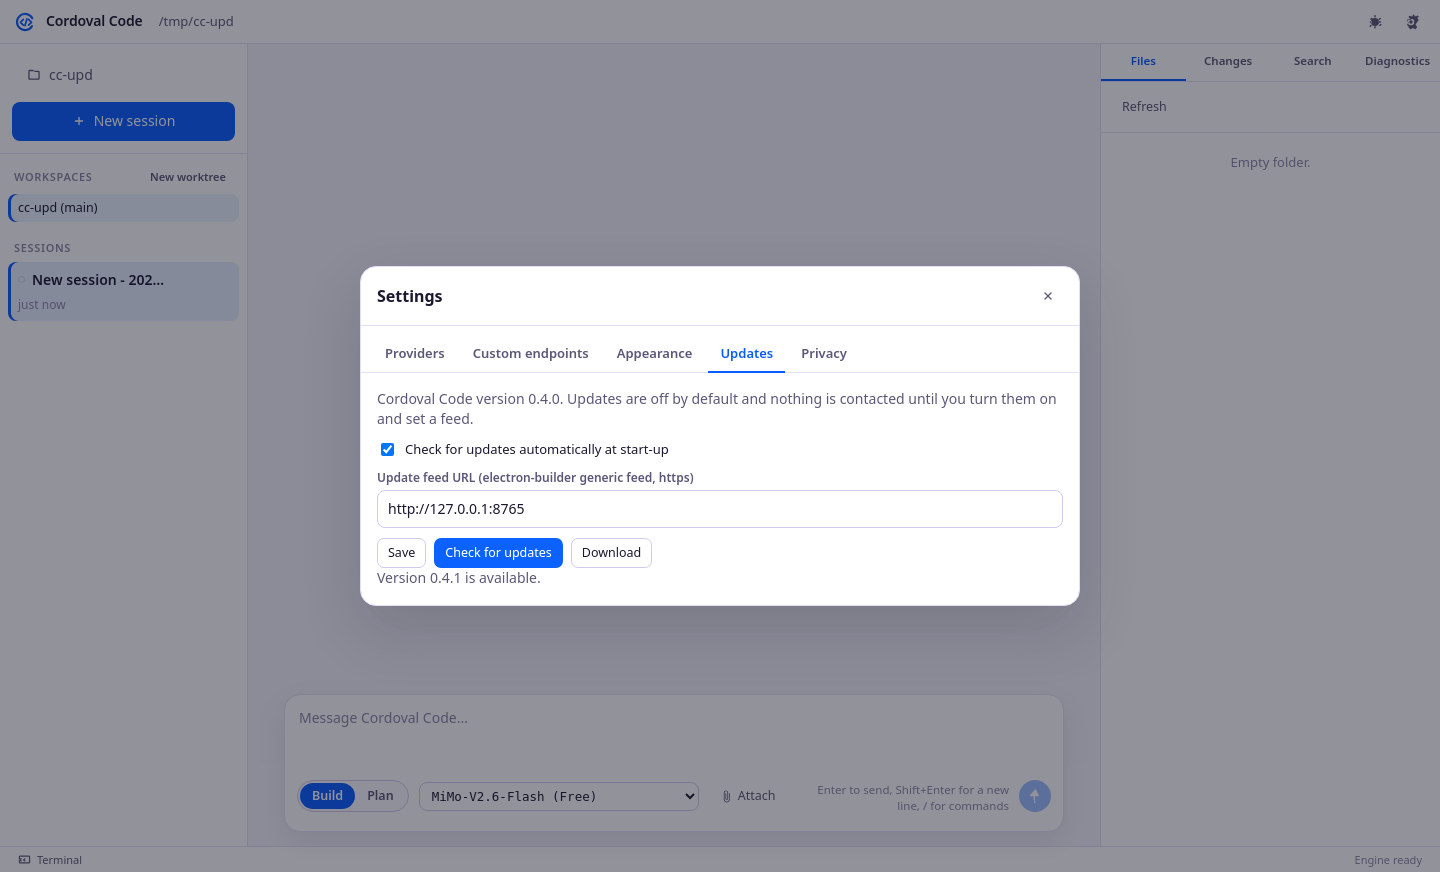
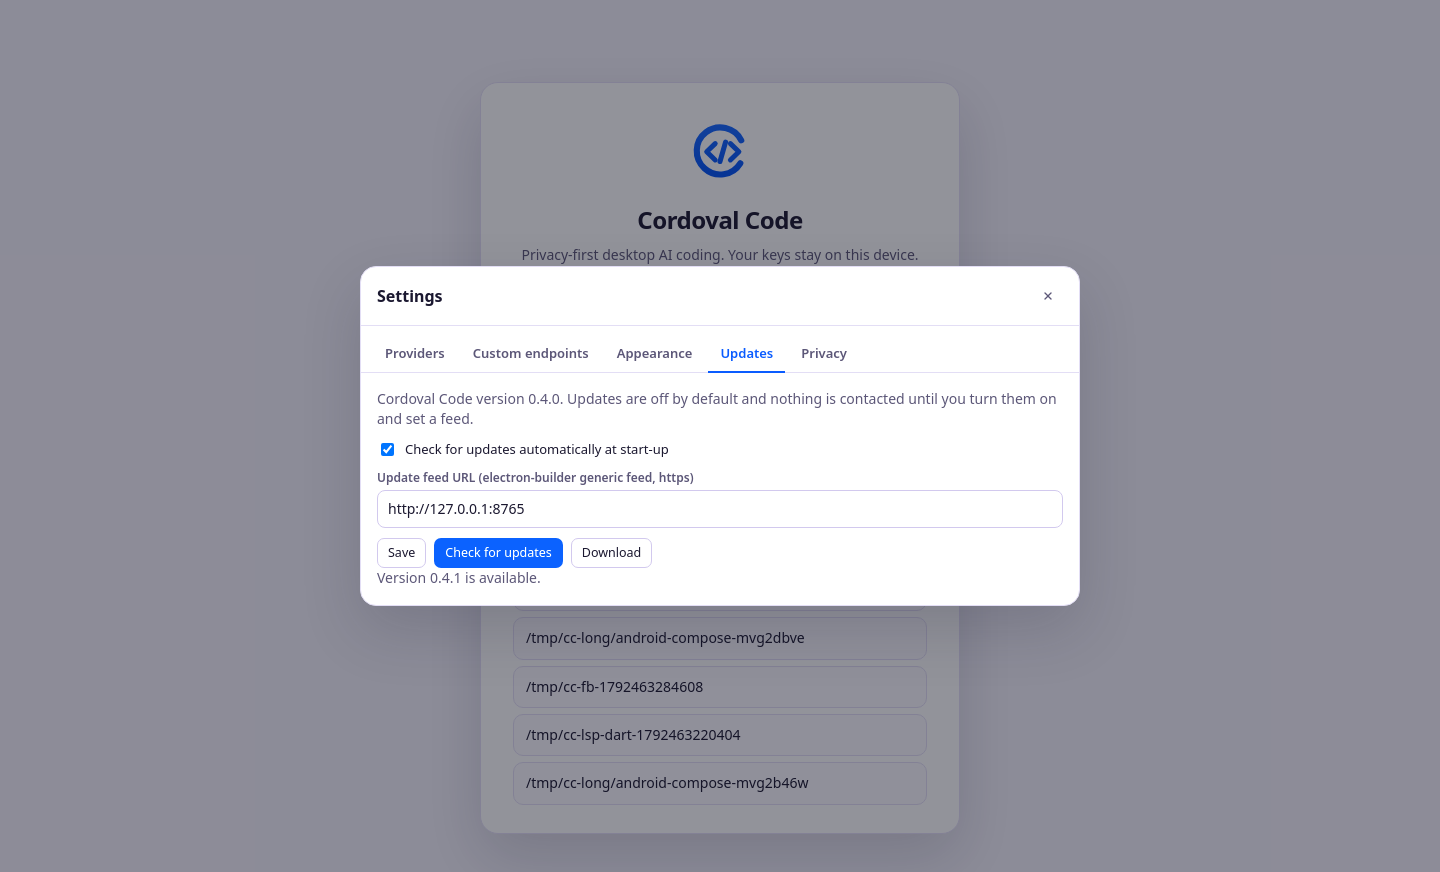
Updater test opens Settings from the welcome screen; packaged screenshots

diff --git a/test/updater.js b/test/updater.js
@@ -6,7 +6,7 @@ const path = require('path');
   const page = await app.firstWindow(); page.on('pageerror', e => console.log('pageerror', e.message));
   await app.evaluate(({ BrowserWindow }) => BrowserWindow.getAllWindows()[0].setSize(1440, 900));
   await page.waitForTimeout(6000);
-  await page.click('#btn-settings'); await page.click('.modal-tab[data-stab="updates"]');
+  await page.click('#btn-welcome-settings'); await page.click('.modal-tab[data-stab="updates"]');
   const before = await page.textContent('#update-status');
   await page.check('#updates-enabled'); await page.fill('#update-feed', process.env.FEED || 'http://127.0.0.1:8765');
   await page.click('#btn-update-check');
